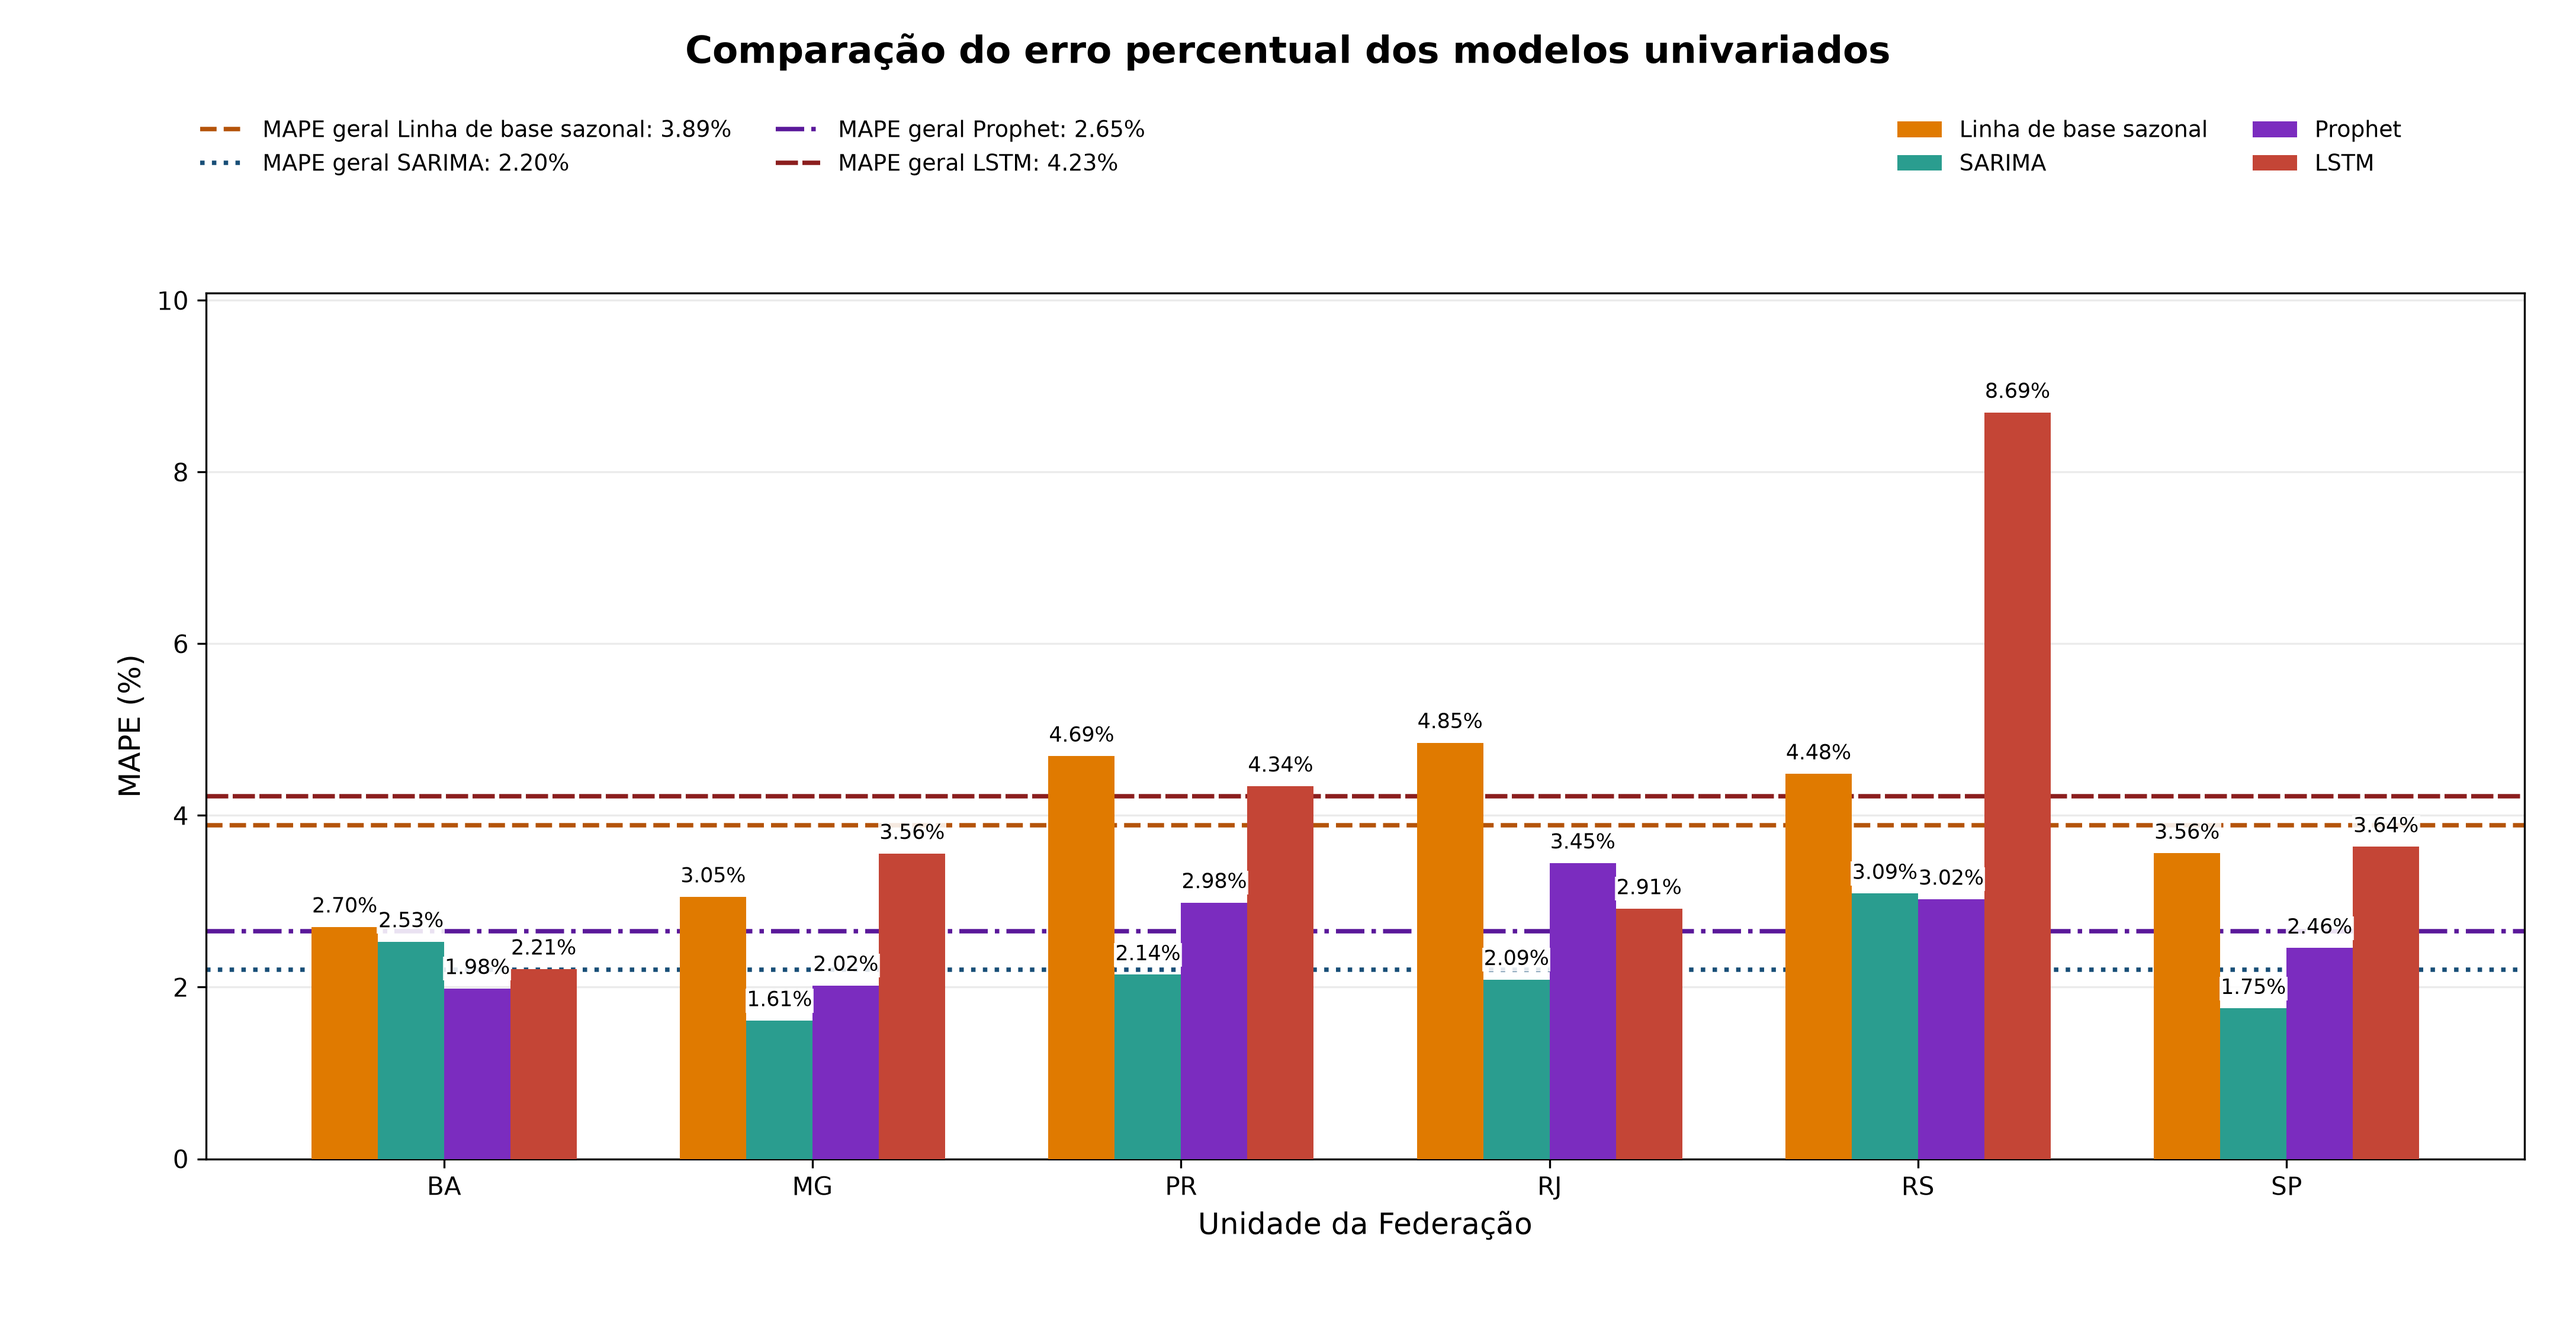
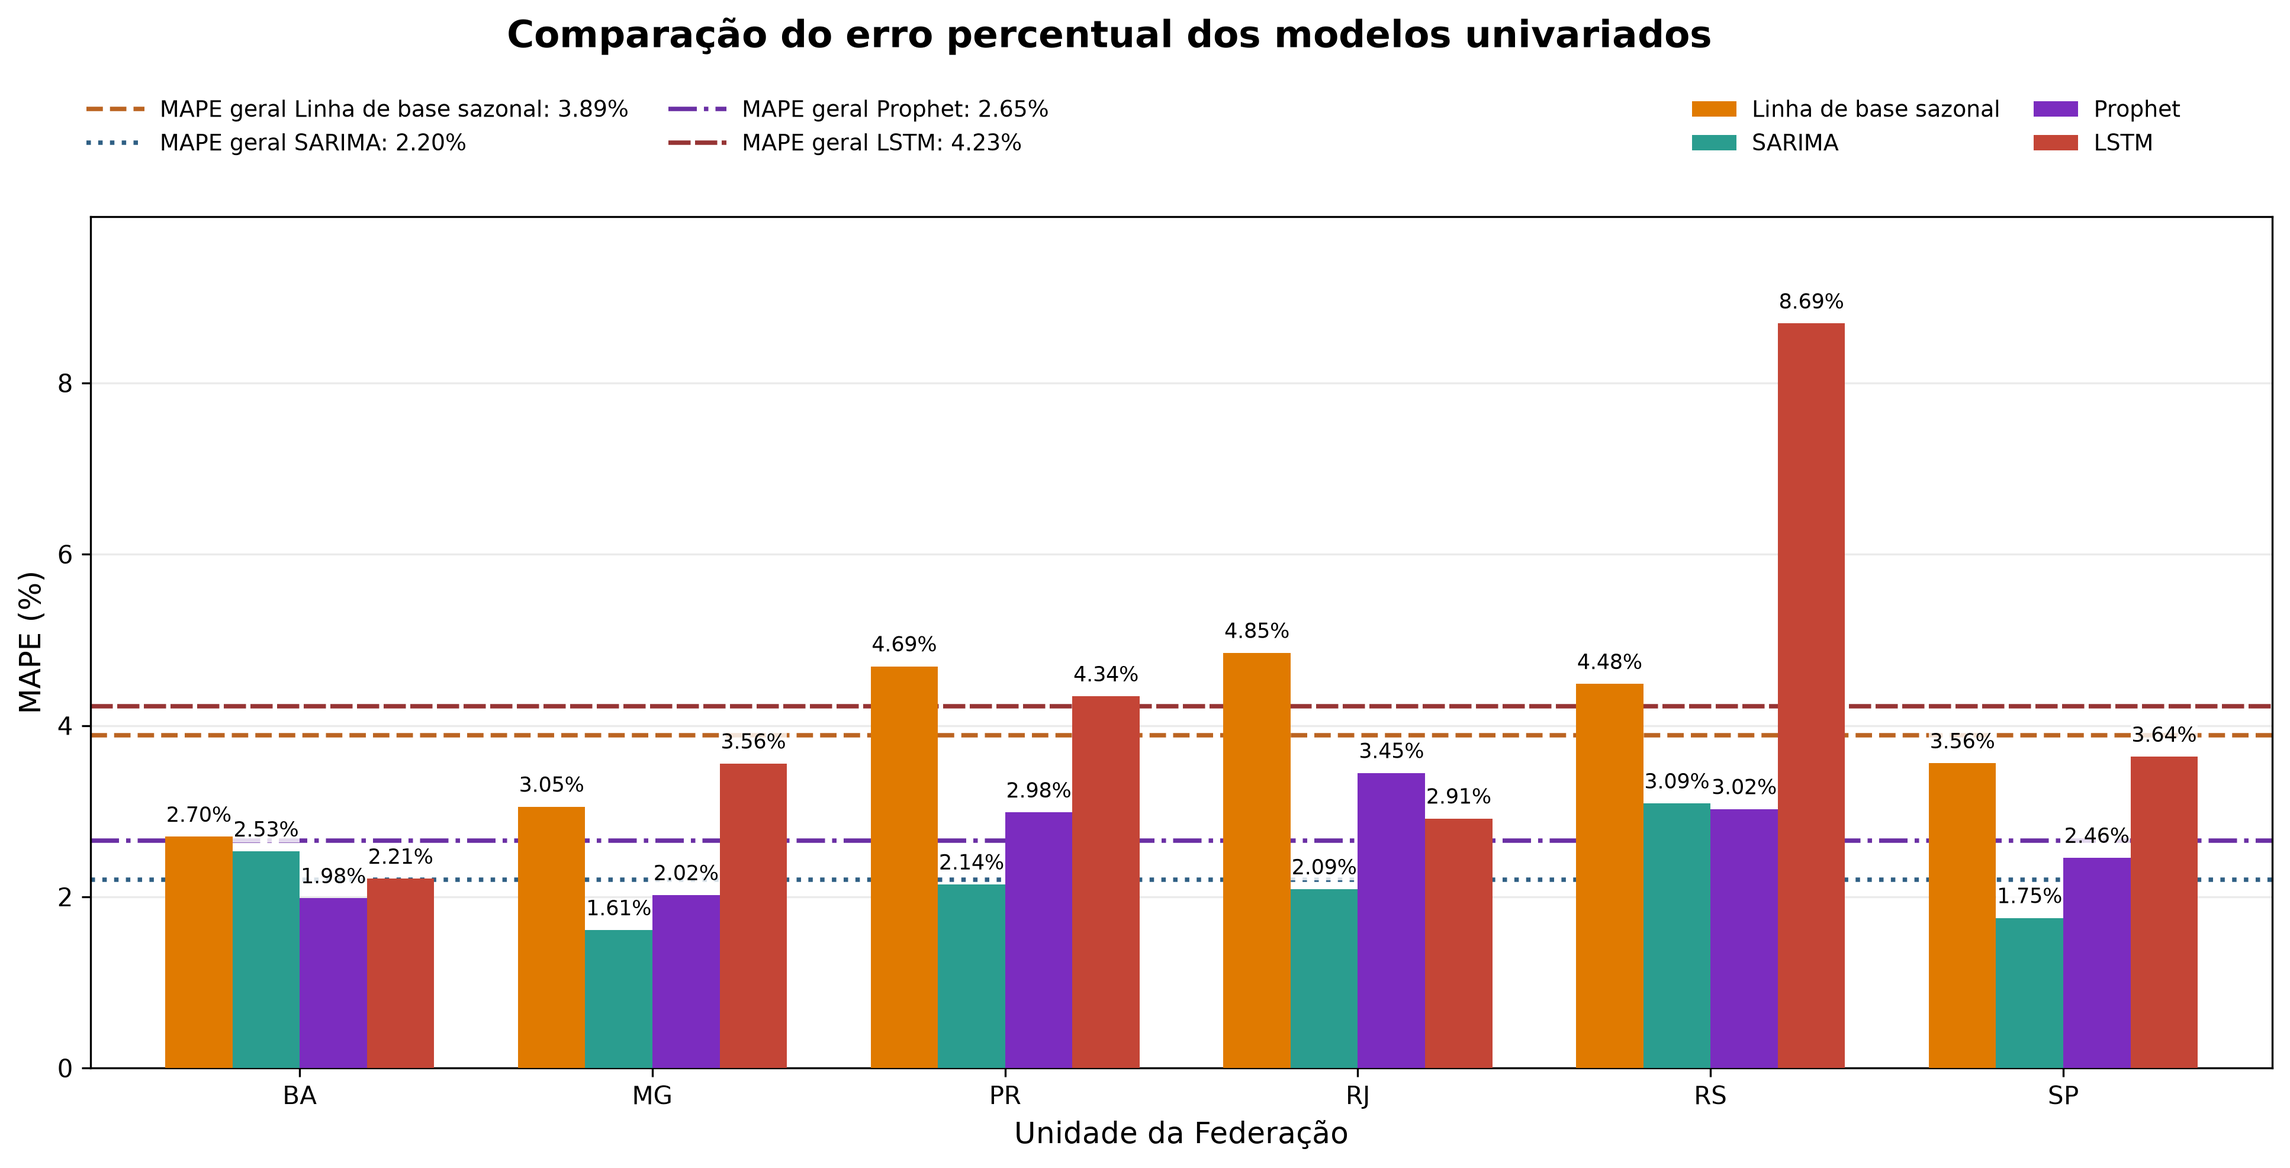
fix: melhora legibilidade da comparação de MAPE

diff --git a/src/models/comparar_modelos_univariados.py b/src/models/comparar_modelos_univariados.py
@@ -280,17 +280,24 @@ def plot_forecasts(merged: pd.DataFrame, output: Path) -> None:
 
 
 def plot_mape(metrics: pd.DataFrame, output: Path) -> None:
-    state = metrics.loc[metrics["uf"].isin(UF_ORDER)].copy()
+    state = metrics.loc[
+        metrics["uf"].isin(UF_ORDER)
+    ].copy()
 
     pivot = (
-        state.pivot(index="uf", columns="modelo", values="mape_pct")
+        state.pivot(
+            index="uf",
+            columns="modelo",
+            values="mape_pct",
+        )
         .reindex(UF_ORDER)
     )
 
-    positions = np.arange(len(UF_ORDER))
+    # Distância entre os centros dos estados.
+    positions = np.arange(len(UF_ORDER)) * 1.18
 
-    # Quatro barras centralizadas em cada estado
-    width = 0.18
+    # Barras mais largas para comportar os percentuais horizontais.
+    width = 0.225
     offsets = (
         -1.5 * width,
         -0.5 * width,
@@ -298,40 +305,39 @@ def plot_mape(metrics: pd.DataFrame, output: Path) -> None:
          1.5 * width,
     )
 
-    fig, axis = plt.subplots(figsize=(1.5, 7.5))
+    fig, axis = plt.subplots(figsize=(13.5, 7.0))
 
-    bar_handles = []
+    bar_handles = {}
 
     for offset, model in zip(offsets, MODEL_COLUMNS):
         bars = axis.bar(
             positions + offset,
             pivot[model],
-            width,
+            width=width,
             label=model,
             color=COLORS[model],
             zorder=3,
         )
 
-        bar_handles.append(bars)
+        bar_handles[model] = bars
 
-        for bar in bars:
-            value = bar.get_height()
-
-            axis.text(
-                bar.get_x() + bar.get_width() / 2,
-                value + 0.11,
-                f"{value:.2f}%",
-                ha="center",
-                va="bottom",
-                fontsize=8.5,
-                zorder=6,
-                bbox={
-                    "facecolor": "white",
-                    "edgecolor": "none",
-                    "alpha": 0.88,
-                    "pad": 0.6,
-                },
-            )
+        axis.bar_label(
+            bars,
+            labels=[
+                f"{value:.2f}%"
+                for value in pivot[model]
+            ],
+            padding=4,
+            fontsize=8.5,
+            rotation=0,
+            zorder=6,
+            bbox={
+                "facecolor": "white",
+                "edgecolor": "none",
+                "alpha": 0.82,
+                "pad": 0.35,
+            },
+        )
 
     general = (
         metrics.loc[metrics["uf"].eq("GERAL")]
@@ -355,13 +361,16 @@ def plot_mape(metrics: pd.DataFrame, output: Path) -> None:
     line_handles = []
 
     for model in MODEL_COLUMNS:
-        value = float(general.loc[model, "mape_pct"])
+        value = float(
+            general.loc[model, "mape_pct"]
+        )
 
         line = axis.axhline(
-            value,
+            y=value,
             color=line_colors[model],
             linestyle=line_styles[model],
             linewidth=1.8,
+            alpha=0.90,
             label=f"MAPE geral {model}: {value:.2f}%",
             zorder=1,
         )
@@ -370,7 +379,31 @@ def plot_mape(metrics: pd.DataFrame, output: Path) -> None:
 
     axis.set_xticks(positions, UF_ORDER)
     axis.set_ylabel("MAPE (%)", fontsize=12)
-    axis.set_xlabel("Unidade da Federação", fontsize=12)
+    axis.set_xlabel(
+        "Unidade da Federação",
+        fontsize=12,
+    )
+
+    axis.tick_params(
+        axis="both",
+        labelsize=10,
+    )
+
+    axis.grid(
+        axis="y",
+        alpha=0.25,
+        zorder=0,
+    )
+    axis.set_axisbelow(True)
+
+    maximum_mape = float(pivot.max().max())
+    axis.set_ylim(0, maximum_mape + 1.25)
+
+    # Reduz as margens laterais internas do gráfico.
+    axis.set_xlim(
+        positions[0] - 0.70,
+        positions[-1] + 0.70,
+    )
 
     fig.suptitle(
         "Comparação do erro percentual dos modelos univariados",
@@ -379,14 +412,7 @@ def plot_mape(metrics: pd.DataFrame, output: Path) -> None:
         y=0.975,
     )
 
-    axis.grid(axis="y", alpha=0.25, zorder=0)
-    axis.set_axisbelow(True)
-
-    # Espaço calculado pelo maior MAPE estadual
-    maximum_mape = float(pivot.max().max())
-    axis.set_ylim(0, maximum_mape * 1.16)
-
-    # Uma legenda para as médias gerais
+    # Legenda das linhas de MAPE geral.
     legend_lines = fig.legend(
         handles=line_handles,
         labels=[
@@ -397,33 +423,41 @@ def plot_mape(metrics: pd.DataFrame, output: Path) -> None:
         fontsize=9,
         ncol=2,
         loc="upper left",
-        bbox_to_anchor=(0.07, 0.925),        
+        bbox_to_anchor=(0.065, 0.925),
+        columnspacing=1.8,
+        handlelength=2.6,
+        handletextpad=0.7,
     )
 
-    # Outra legenda para as barras
+    # Legenda das barras.
     fig.legend(
-        handles=[bars[0] for bars in bar_handles],
+        handles=[
+            bar_handles[model][0]
+            for model in MODEL_COLUMNS
+        ],
         labels=list(MODEL_COLUMNS.keys()),
         frameon=False,
         fontsize=9,
         ncol=2,
         loc="upper right",
-        bbox_to_anchor=(0.94, 0.925),       
+        bbox_to_anchor=(0.955, 0.925),
+        columnspacing=1.5,
+        handletextpad=0.7,
     )
 
+    # Aproxima o topo do eixo das legendas.
     fig.subplots_adjust(
-        top=0.78,
+        top=0.815,
         bottom=0.13,
-        left=0.08,
-        right=0.98,
+        left=0.075,
+        right=0.985,
     )
-    
-    fig.set_size_inches(14.5, 7.5, forward=True)
 
     fig.savefig(
         output,
         dpi=300,
         facecolor="white",
+        bbox_inches="tight",
     )
 
     plt.close(fig)
